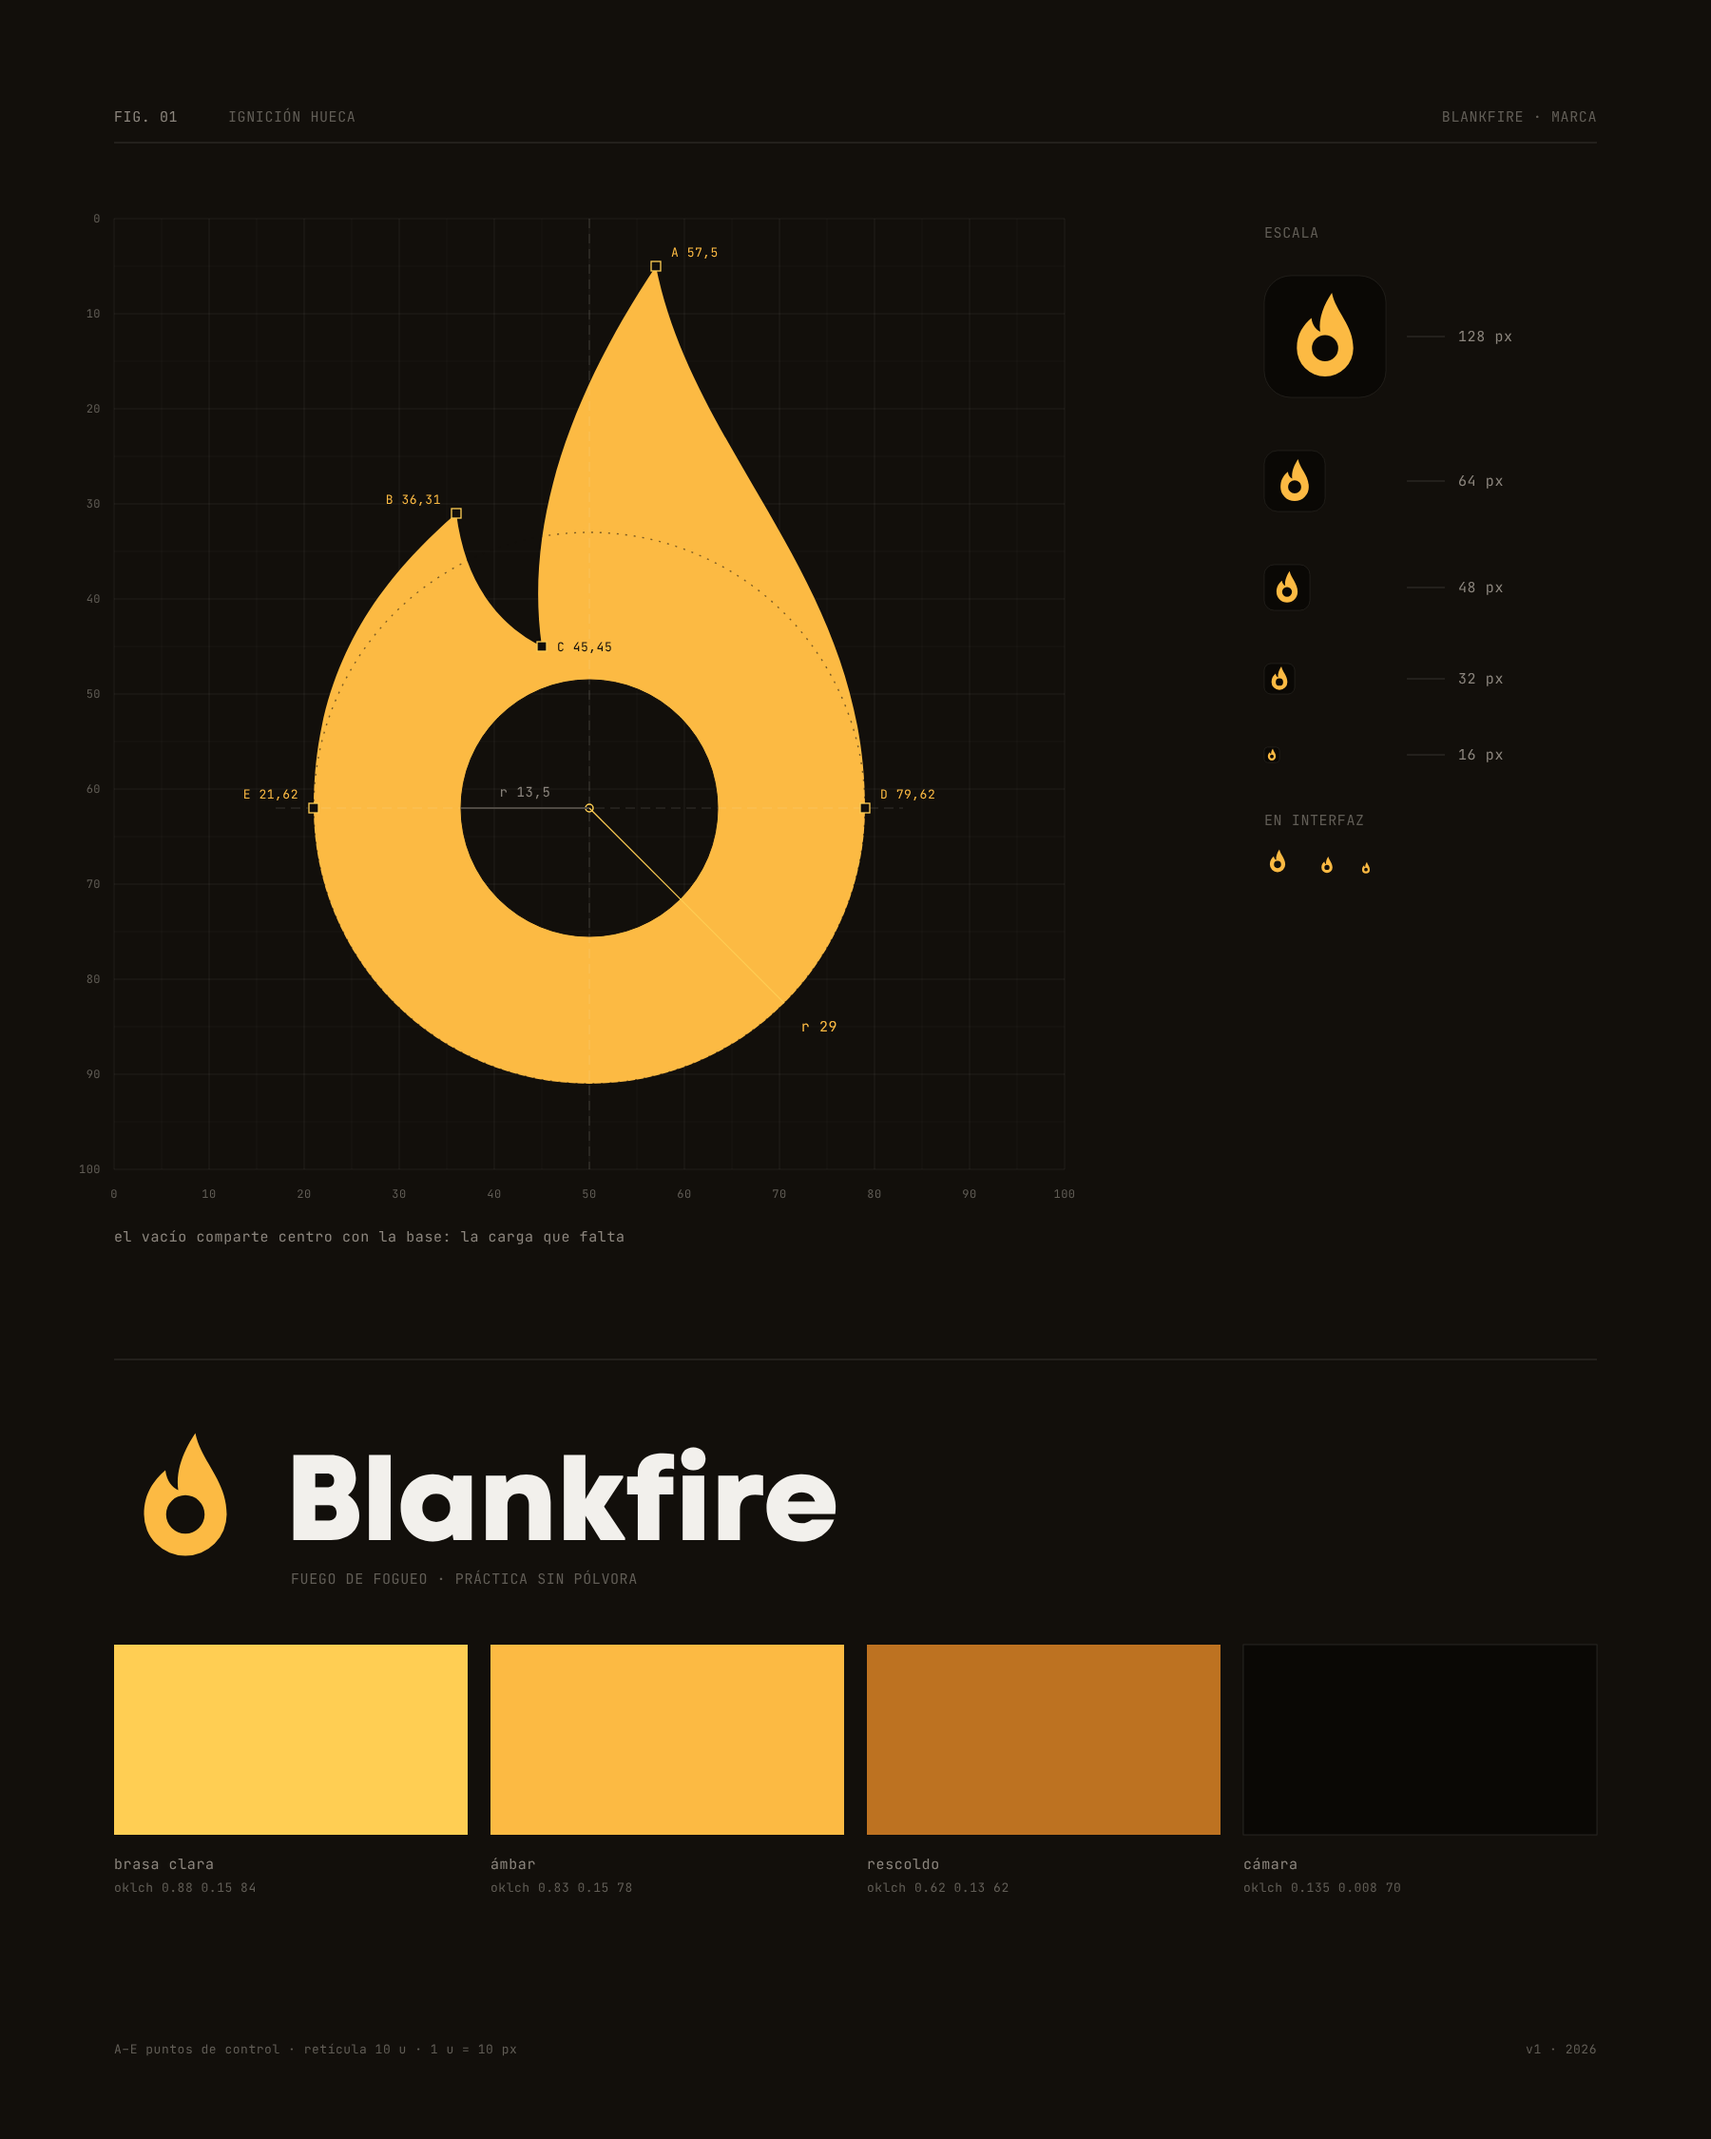
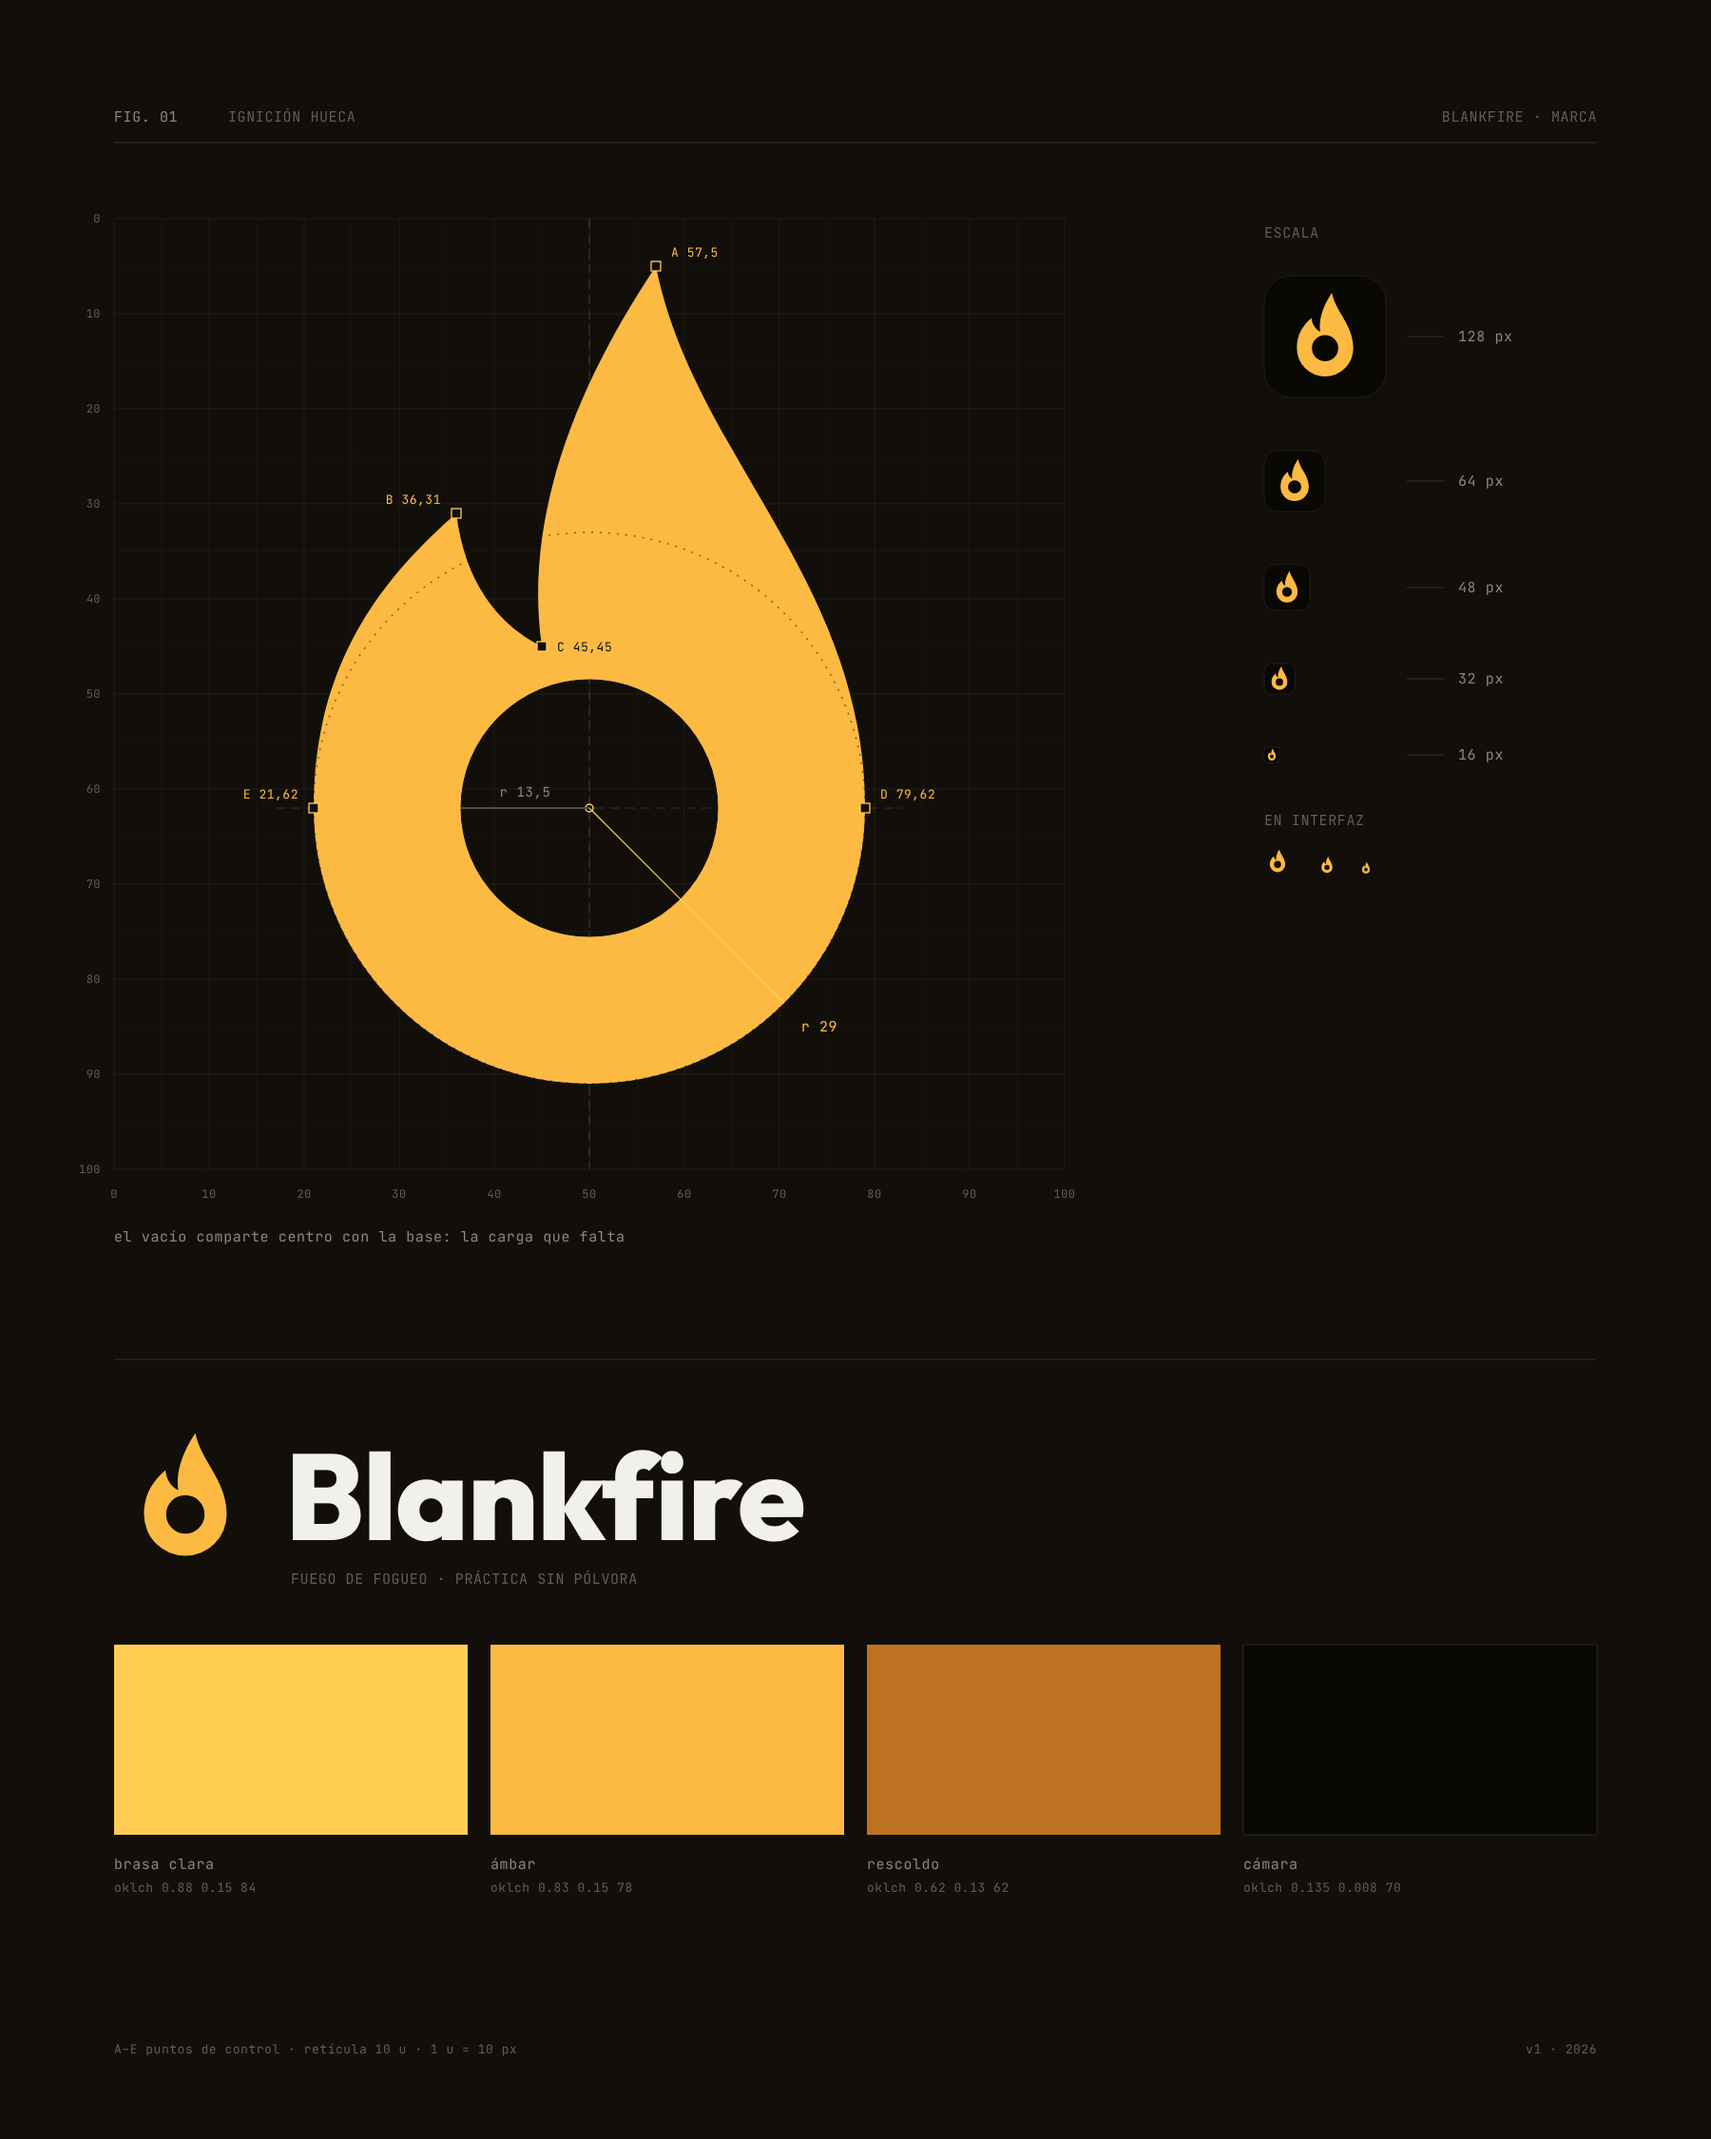
Tipografía libre (Outfit, OFL) y captura real en el README
- Sustituye Code Next por Outfit ExtraBold (SIL OFL 1.1), incluida con su
  licencia y la de Barlow en Fogueo/fonts.
- El README abre con una captura del panel y la ventana del icono; la
  lámina de la marca pasa a su propia sección y se regenera con Outfit.
- Versión 1.7.2.

Claude-Session: https://claude.ai/code/session_01H5J5EeHQc7AKNhhKSBT7YB

Changed region(s): [[0.2489, 0.6533, 0.4978, 0.7467], [0.1867, 0.6844, 0.2178, 0.7156]]

diff --git a/Marca Blankfire/fuente/hero.html b/Marca Blankfire/fuente/hero.html
@@ -1,0 +1,33 @@
+<!doctype html><html><head><meta charset="utf-8"><style>
+@font-face{font-family:D;src:url(outfit-800.woff2);font-weight:800}
+@font-face{font-family:B;src:url(barlow-latin-400-normal.woff2);font-weight:400}
+@font-face{font-family:B;src:url(barlow-latin-500-normal.woff2);font-weight:500}
+@font-face{font-family:M;src:url(JetBrainsMono-Regular.ttf)}
+html,body{margin:0}
+body{width:1400px;height:920px;background:oklch(0.15 0.009 72);position:relative;overflow:hidden;font-family:B}
+.copy{position:absolute;left:72px;top:0;bottom:0;width:470px;display:flex;flex-direction:column;justify-content:center}
+.brand{display:flex;align-items:center;gap:18px}
+.brand svg{width:64px;height:64px;color:oklch(0.83 0.15 78)}
+.brand b{font-family:D;font-weight:800;font-size:68px;line-height:1;color:oklch(0.955 0.006 85);letter-spacing:-0.005em}
+h1{margin:34px 0 0;font-family:D;font-weight:800;font-size:34px;line-height:1.15;color:oklch(0.955 0.006 85);letter-spacing:0;text-wrap:balance}
+h1 em{font-style:normal;color:oklch(0.83 0.15 78)}
+p{margin:16px 0 0;font-size:20px;line-height:1.45;color:oklch(0.8 0.01 80);text-wrap:pretty;max-width:430px}
+.facts{margin-top:34px;display:grid;gap:10px;font-family:M;font-size:14px;color:oklch(0.68 0.012 80)}
+.facts span::before{content:"";display:inline-block;width:6px;height:6px;border-radius:50%;background:oklch(0.83 0.15 78);margin-right:12px;vertical-align:2px}
+.shot{position:absolute;border-radius:12px;box-shadow:0 0 0 1px oklch(0.83 0.15 78 / .35),0 8px 8px -4px oklch(0 0 0 / .5)}
+.panel{left:600px;top:61px;width:330px}
+.popup{left:962px;top:160px;width:400px;box-shadow:0 0 0 1px oklch(0.95 0.01 80 / .10),0 8px 8px -4px oklch(0 0 0 / .5)}
+.cap{position:absolute;font-family:M;font-size:12px;color:oklch(0.55 0.012 78);letter-spacing:.04em}
+</style></head><body>
+<div class="copy">
+  <div class="brand"><svg viewBox="0 0 100 100"><path id="m" fill="currentColor" fill-rule="evenodd"/></svg><b>Blankfire</b></div>
+  <h1>Practica memecoins en Padre <em>sin arriesgar ni un SOL</em></h1>
+  <p>Un panel dentro de Padre con SOL ficticio, comisiones y slippage reales, Stop y Take automáticos y un diario que te dice qué hábitos te cuestan dinero.</p>
+  <div class="facts"><span>Chrome · Opera GX</span><span>Español · English</span><span>No toca tu wallet</span></div>
+</div>
+<img class="shot panel" src="hero-panel.png" alt="">
+<div class="cap" style="left:600px;top:34px">PANEL EN PADRE</div>
+<img class="shot popup" src="hero-popup.png" alt="">
+<div class="cap" style="left:962px;top:133px">VENTANA DEL ICONO</div>
+<script type="module">import { MARK } from './mark.js'; document.getElementById('m').setAttribute('d', MARK);</script>
+</body></html>

diff --git a/Fogueo/popup/popup.css b/Fogueo/popup/popup.css
@@ -4,7 +4,7 @@
 @font-face { font-family: "Fogueo Barlow SC"; font-weight: 500; src: url(../fonts/barlow-semi-condensed-latin-500-normal.woff2) format("woff2"); }
 @font-face { font-family: "Fogueo Barlow SC"; font-weight: 600; src: url(../fonts/barlow-semi-condensed-latin-600-normal.woff2) format("woff2"); }
 @font-face { font-family: "Fogueo Barlow SC"; font-weight: 700; src: url(../fonts/barlow-semi-condensed-latin-700-normal.woff2) format("woff2"); }
-@font-face { font-family: "Fogueo Code Next"; font-weight: 800; src: url(../fonts/codenext-800.woff2) format("woff2"); }
+@font-face { font-family: "Fogueo Display"; font-weight: 800; src: url(../fonts/outfit-800.woff2) format("woff2"); }
 
 *, *::before, *::after { box-sizing: border-box; }
 html { color-scheme: dark; }
@@ -231,11 +231,11 @@ button:focus-visible, a:focus-visible { outline: 2px solid var(--fx-brand); outl
   .tab-ink, .switch button[role="switch"]::after { transition-duration: 0ms; }
 }
 
-/* ---------- Code Next ExtraBold: momentos de display ---------- */
+/* ---------- Outfit ExtraBold: momentos de display ---------- */
 .brand, .big, .r-pnl, .wr-head b, .av, .net {
   font-family: var(--fx-font-display);
   font-weight: 800;
-  /* Las cifras tabulares de Code Next separan la coma ("9 , 4"): usamos las proporcionales. */
+  /* Con cifras tabulares la coma queda separada ("9 , 4"): usamos las proporcionales. */
   font-variant-numeric: proportional-nums;
   font-feature-settings: "tnum" 0, "pnum" 1;
 }

diff --git a/Fogueo/content/panel.css b/Fogueo/content/panel.css
@@ -390,11 +390,11 @@ button:focus-visible, input:focus-visible, textarea:focus-visible { outline: 2px
 }
 @keyframes fx-fade { from { opacity: 0; } to { opacity: 1; } }
 
-/* ---------- Code Next ExtraBold: momentos de display ---------- */
+/* ---------- Outfit ExtraBold: momentos de display ---------- */
 .brand, .sym, .price, .pos-pnl, .head-bal b, .go .label, .head-chip, .avatar {
   font-family: var(--fx-font-display);
   font-weight: 800;
-  /* Las cifras tabulares de Code Next separan la coma ("9 , 4"): usamos las proporcionales. */
+  /* Con cifras tabulares la coma queda separada ("9 , 4"): usamos las proporcionales. */
   font-variant-numeric: proportional-nums;
   font-feature-settings: "tnum" 0, "pnum" 1;
 }

diff --git a/Fogueo/content/tokens.css b/Fogueo/content/tokens.css
@@ -35,8 +35,8 @@
 
   --fx-font: "Fogueo Barlow", system-ui, sans-serif;
   --fx-font-num: "Fogueo Barlow SC", "Fogueo Barlow", system-ui, sans-serif;
-  /* Code Next ExtraBold: solo para los momentos grandes (marca, token, precio, PnL, saldo, botones). */
-  --fx-font-display: "Fogueo Code Next", "Fogueo Barlow SC", system-ui, sans-serif;
+  /* Outfit ExtraBold (SIL OFL): solo para los momentos grandes (marca, token, precio, PnL, saldo, botones). */
+  --fx-font-display: "Fogueo Display", "Fogueo Barlow SC", system-ui, sans-serif;
 
   --fx-r-sm: 6px;
   --fx-r: 8px;

diff --git a/Fogueo/content/panel.js b/Fogueo/content/panel.js
@@ -78,7 +78,7 @@ async function loadFonts() {
     ['Fogueo Barlow SC', 'barlow-semi-condensed-latin-500-normal', 500],
     ['Fogueo Barlow SC', 'barlow-semi-condensed-latin-600-normal', 600],
     ['Fogueo Barlow SC', 'barlow-semi-condensed-latin-700-normal', 700],
-    ['Fogueo Code Next', 'codenext-800', 800],
+    ['Fogueo Display', 'outfit-800', 800],
   ];
   // Cargamos los bytes nosotros: así la CSP de Padre no bloquea las fuentes.
   await Promise.all(faces.map(async ([family, file, weight]) => {

diff --git a/Marca Blankfire/fuente/sheet.html b/Marca Blankfire/fuente/sheet.html
@@ -1,5 +1,5 @@
 <!doctype html><html><head><meta charset="utf-8"><style>
-@font-face{font-family:CN;src:url(codenext-800.woff2)}
+@font-face{font-family:CN;src:url(outfit-800.woff2)}
 @font-face{font-family:JB;src:url(JetBrainsMono-Regular.ttf)}
 @font-face{font-family:BR;src:url(barlow-latin-400-normal.woff2)}
 html,body{margin:0}

diff --git a/README.md b/README.md
@@ -4,7 +4,7 @@
 
 Extensión para Chrome y Opera GX (Manifest V3). Español e inglés.
 
-![Marca de Blankfire](Marca%20Blankfire/blankfire-lamina.png)
+![Blankfire: el panel dentro de Padre y la ventana del icono](docs/captura.png)
 
 ## Qué hace
 
@@ -24,8 +24,7 @@ Extensión para Chrome y Opera GX (Manifest V3). Español e inglés.
 2. Abre `chrome://extensions` (en Opera GX, `opera://extensions`).
 3. Activa el **Modo de desarrollador**.
 4. Pulsa **Cargar descomprimida** y elige la carpeta `Fogueo`.
-   (Opcional: añade la tipografía Code Next, mira *Tipografías* más abajo.)
-5. Abre un token en [trade.padre.gg](https://trade.padre.gg): el panel aparece solo. <kbd>Alt</kbd>+<kbd>Shift</kbd>+<kbd>F</kbd> lo muestra u oculta.
+   5. Abre un token en [trade.padre.gg](https://trade.padre.gg): el panel aparece solo. <kbd>Alt</kbd>+<kbd>Shift</kbd>+<kbd>F</kbd> lo muestra u oculta.
 
 > La carpeta se llama `Fogueo` (el nombre original del proyecto) a propósito: el navegador identifica la extensión por su ruta, y cambiarla borraría tu cuenta de práctica.
 
@@ -54,11 +53,19 @@ PW_EXPERIMENTAL_SERVICE_WORKER_NETWORK_EVENTS=1 npm test
 
 Las pruebas cargan la extensión en Chromium, simulan las APIs de precios y Padre, y comprueban compras, ventas, TP/SL, stop dinámico, órdenes límite, recorridos, idiomas y que nada en modo inglés quede en español.
 
-## Aviso
+## Marca
 
-Blankfire es una herramienta de práctica. Los resultados son una aproximación: en real, la ejecución puede ser peor en tokens muy nuevos o con poca liquidez. Nada de esto es asesoramiento financiero.
+Llama con un vacío circular: fuego sin pólvora. La lámina muestra su construcción, los tamaños del icono y la paleta; en `Marca Blankfire/` están la filosofía visual y los archivos para regenerarla.
+
+![Lámina de la marca Blankfire](Marca%20Blankfire/blankfire-lamina.png)
 
 ## Tipografías
 
-- **Barlow** y **Barlow Semi Condensed** (SIL Open Font License) van incluidas.
-- **Code Next ExtraBold** (de [Fontfabric](https://www.fontfabric.com/fonts/code-next/), gratuita) se usa para la marca, los títulos y las cifras grandes, pero **no está en el repositorio**: su licencia no permite redistribuir el archivo. Sin ella la extensión funciona igual y usa Barlow en su lugar. Para tener el aspecto original, descarga Code Next desde Fontfabric y copia `CodeNext-ExtraBold.woff2` (carpeta *Commercial/WEB*) como `Fogueo/fonts/codenext-800.woff2`.
+Todas son libres (SIL Open Font License 1.1) y van incluidas en `Fogueo/fonts/` junto a sus licencias:
+
+- **Outfit ExtraBold**: la marca, los títulos y las cifras grandes.
+- **Barlow** y **Barlow Semi Condensed**: el texto y los números del resto de la interfaz.
+
+## Aviso
+
+Blankfire es una herramienta de práctica. Los resultados son una aproximación: en real, la ejecución puede ser peor en tokens muy nuevos o con poca liquidez. Nada de esto es asesoramiento financiero.
